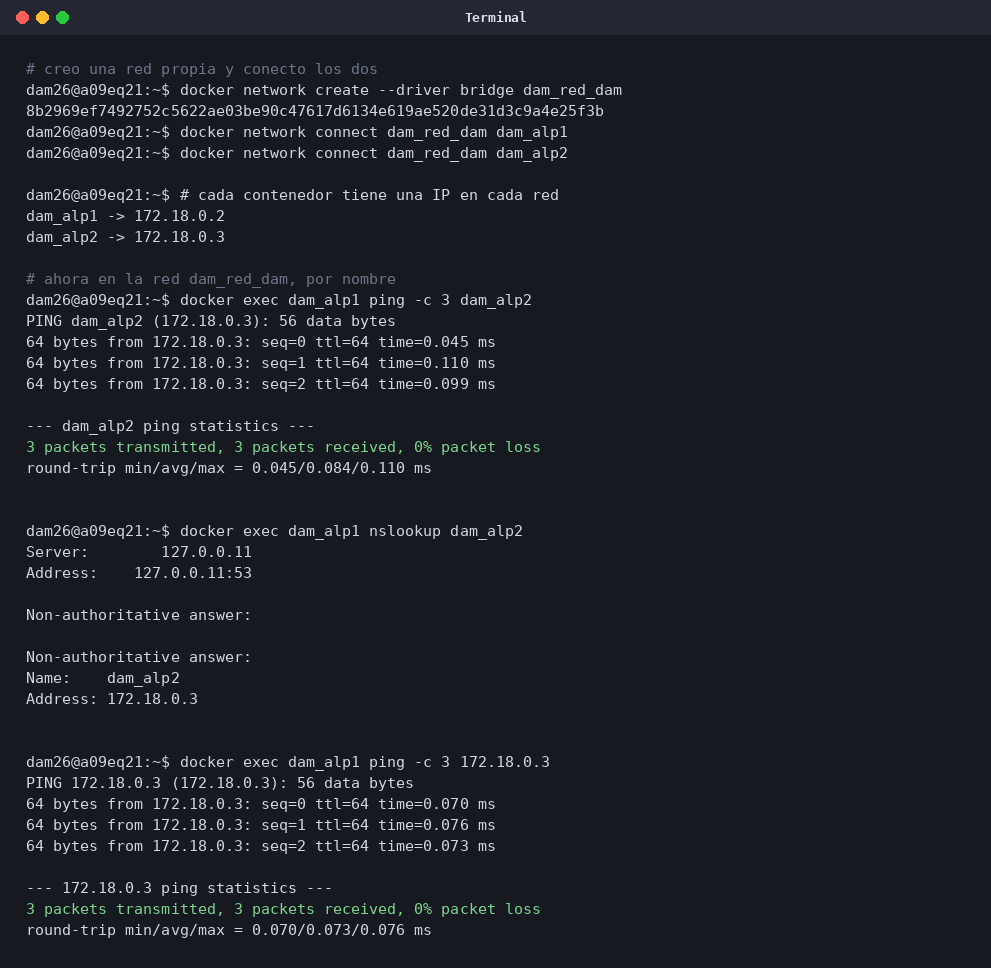
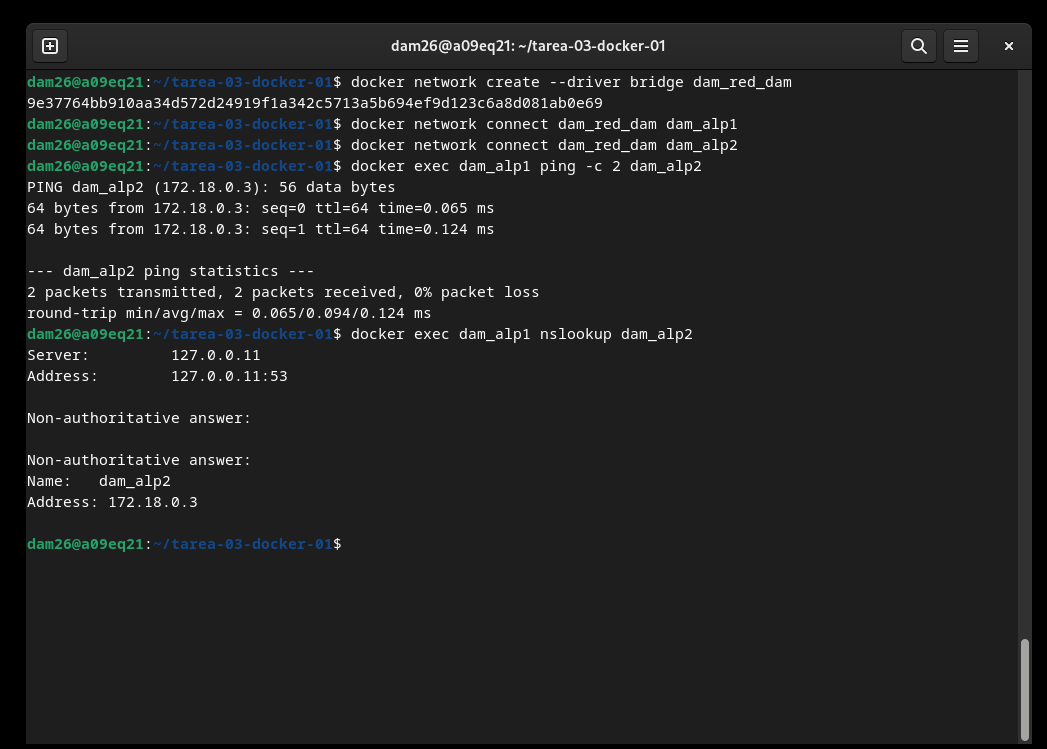
actualizar explicaciones y capturas

diff --git a/README.md b/README.md
@@ -1,123 +1,125 @@
 # Práctica Docker
 
-Práctica de contenedores con Alpine. He usado la imagen alpine:3.22, con la versión
-fija para no usar latest, que es una etiqueta que va cambiando.
+He usado alpine:3.22 para hacer la práctica. Pongo esa versión en vez de
+latest porque así no cambia la imagen de un paso a otro.
 
-## 1. Descargar la imagen
-
-Ponemos "docker pull alpine:3.22" y esperamos.
+Primero pongo "docker pull alpine:3.22". Ya tenía la imagen descargada, así que
+me sale que está actualizada.
 
 ![captura](capturas/01-descargar-imagen.png)
 
-Esto solo descarga, no crea ningún contenedor. Con "docker images" comprobamos que
-sale alpine:3.22 ocupando 8.3 MB.
+Esto solo descarga la imagen, no crea el contenedor. Después miro "docker images"
+y ahí sale Alpine ocupando 8,3 MB. Las otras imágenes ya las tenía de antes.
 
 ![captura](capturas/02-comprobar-imagen.png)
 
-## 2. Crear un contenedor sin nombre y sin arrancarlo
-
-Ponemos "docker create alpine:3.22 sh" y nos devuelve un id.
+Pongo "docker create alpine:3.22 sh" y me devuelve un id.
 
 ![captura](capturas/03-crear-sin-nombre.png)
 
-Después lo miramos con "docker ps -a".
+Lo miro con "docker ps -a" y luego con "docker ps".
 
 ![captura](capturas/04-estado-created.png)
 
-Se queda en estado Created, o sea que existe pero no tiene ningún proceso corriendo.
-Por eso no sale en "docker ps", que solo muestra los que están funcionando.
+Sale en estado Created, o sea que está creado pero no arrancado. Por eso aparece
+en "docker ps -a" y no en "docker ps", que solo muestra los que están funcionando.
 
-El nombre se lo ha puesto Docker solo, nos ha puesto laughing_poincare. Estos nombres
-son aleatorios, por eso mejor siempre ponerlo con --name.
+Como no le puse nombre, Docker le ha puesto friendly_brahmagupta. Estos nombres
+son aleatorios; para elegir uno hay que poner --name.
 
-## 3. Crear y arrancar dam_alp1
-
-Ponemos "docker run -dit --name dam_alp1 alpine:3.22 sh".
+Ahora pongo "docker run -dit --name dam_alp1 alpine:3.22 sh". Esta vez sí lo
+arranca, y con "docker ps" veo que está funcionando.
 
 ![captura](capturas/05-arrancar-dam_alp1.png)
 
-Para poder escribir dentro hacen falta la -i, para que no se corte el teclado, y la -t,
-para que nos de una terminal. La -d es para que se quede funcionando detrás.
+La -d es para dejarlo en segundo plano, la -i mantiene abierta la entrada
+y la -t le da una terminal. Así la shell no se cierra al arrancarlo.
 
-## 4. Ver la IP y hacer ping a google.com
-
-Entramos con "docker exec -it dam_alp1 sh" y dentro ponemos "ip -4 addr show eth0".
+Entro con "docker exec -it dam_alp1 sh". Dentro pongo "ip -4 addr show eth0"
+y después "ping -c 3 google.com".
 
 ![captura](capturas/06-ip-y-ping-google.png)
 
-La IP es 172.17.0.2. El ping a google.com va bien, con 0% de pérdida, así que tiene
-salida a internet.
+Me sale la IP 172.17.0.2. El ping a Google va bien: llegan los tres paquetes
+y hay un 0% de pérdida. Tiene salida a internet.
 
-## 5. dam_alp2 y pings entre los dos
+Creo el segundo igual, con "docker run -dit --name dam_alp2 alpine:3.22 sh".
+Miro su IP con "docker exec dam_alp2 ip -4 addr show eth0" y sale 172.17.0.3.
+El primero tiene 172.17.0.2.
 
-Creamos el otro igual, con "docker run -dit --name dam_alp2 alpine:3.22 sh". El primero
-tiene la IP 172.17.0.2 y el segundo la 172.17.0.3.
-
-Por la IP va bien, poniendo "docker exec -it dam_alp1 ping -c 2 172.17.0.3".
+Por IP funciona con "docker exec dam_alp1 ping -c 2 172.17.0.3". Pero al probar
+con el nombre dam_alp2 da error.
 
 ![captura](capturas/07a-pings-bridge-defecto.png)
 
-Por el nombre no va, da "ping: bad address 'dam_alp2'". Es que la red que viene por
-defecto no tiene servidor de nombres, así que ping no sabe qué IP es dam_alp2. Lo
-comprobamos con "docker exec -it dam_alp1 nslookup dam_alp2", que pregunta al
-8.8.8.8 y le contesta NXDOMAIN, porque ese es el DNS de internet y no sabe nada de
-nuestros contenedores.
+Sale el error ping: bad address 'dam_alp2'. En la red bridge que viene por defecto,
+Docker no busca la IP a partir del nombre del contenedor. Lo compruebo con
+"docker exec dam_alp1 nslookup dam_alp2": pregunta a 8.8.8.8 y contesta
+NXDOMAIN, porque ese DNS no conoce nuestros contenedores.
 
-La solución es crear una red nuestra con "docker network create --driver bridge
-dam_red_dam" y conectar los dos con "docker network connect dam_red_dam dam_alp1".
+Para que vaya por nombre creo una red con
+"docker network create --driver bridge dam_red_dam". Conecto los dos
+con "docker network connect dam_red_dam dam_alp1" y
+"docker network connect dam_red_dam dam_alp2", y repito el ping.
 
 ![captura](capturas/07b-pings-red-usuario.png)
 
-Ahora sí va por el nombre, porque en esta red Docker mete un DNS en 127.0.0.11 que ya
-sabe los nombres. Y por la IP también va, más la vuelta desde el otro contenedor.
+Ahora sí va por el nombre. En nslookup sale el DNS de Docker, 127.0.0.11,
+que ya sabe que dam_alp2 tiene la IP 172.18.0.3.
+
+En la nueva red tienen las IP 172.18.0.2 y 172.18.0.3. Pruebo también por
+esa IP y al revés, desde dam_alp2 a dam_alp1, y funciona en los dos sentidos.
 
 ![captura](capturas/07c-pings-red-usuario-ip.png)
 
-## 6. Cuánta memoria consumen
-
-Sí, hay comando, que es "docker stats --no-stream".
+Uso "docker stats --no-stream" para verlo. Con --no-stream muestra los datos
+una vez, sin quedarse actualizándolos.
 
 ![captura](capturas/08-memoria-stats.png)
 
-Cada uno está en unos 536 KiB, porque Alpine es una distribución muy pequeña y lo
-único que está vivo es la shell.
+Me salen 536 KiB en dam_alp1 y 528 KiB en dam_alp2. Consumen muy poco porque
+solo está abierta la shell. La CPU sale al 0%.
 
-## 7. Salir con exit
-
-Salimos de la shell escribiendo exit y luego miramos "docker ps".
+Entro otra vez con "docker exec -it dam_alp1 sh", escribo "exit" y después
+miro "docker ps".
 
 ![captura](capturas/09-exit-desligado.png)
 
-Los contenedores siguen funcionando, porque esa shell la abrió un "docker exec", que
-es un proceso aparte, y el proceso principal del contenedor no se ha tocado.
+Siguen funcionando los dos. El exit ha cerrado la shell que abrí con
+docker exec, pero no el proceso principal del contenedor.
 
-Para ver el otro caso hice un contenedor sin el -d, con "docker run -it --name
-dam_alp_attached alpine:3.22 sh". Aquí la shell es el proceso número 1, que lo vemos
-con "echo $$".
+Pruebo también con otro contenedor sin la -d:
+"docker run -it --name dam_alp_attached alpine:3.22 sh". Aquí la shell es el
+proceso principal. Pongo "echo $$" y sale 1.
 
 ![captura](capturas/10-exit-adherido.png)
 
-Al hacer exit aquí el contenedor se para entero y sale como Exited (0). O sea que exit
-no para el contenedor, para el proceso principal. Y como aquí la shell es ese proceso,
-al salir se para todo. En "docker ps" ya no sale, solo en "docker ps -a", y se puede
-volver a encender con "docker start".
+En este caso, al poner "exit" sí se para el contenedor, porque estoy cerrando
+su proceso principal. Ya no sale en "docker ps". Lo miro con
+"docker ps -a --filter name=dam_alp_attached" y aparece como Exited (0).
+Para arrancarlo otra vez se puede usar "docker start dam_alp_attached".
 
-## 8. Cuánto disco hemos ocupado
-
-Con "docker system df" sale el resumen.
+Pongo "docker system df" para ver cuánto espacio ocupa Docker.
 
 ![captura](capturas/11a-disco-system-df.png)
 
-Y con "docker system df -v" el detalle.
+Y con "docker system df -v" veo lo que ocupa cada imagen y cada contenedor.
 
 ![captura](capturas/11b-disco-system-dfv.png)
 
-Una imagen es una plantilla y un contenedor es uno que ya corre con esa plantilla. Lo
-que ocupa el disco es la imagen.
+Las imágenes ocupan 248,6 MB en total, pero no todo es de esta práctica.
+También están las imágenes que tenía antes. Alpine ocupa 8,3 MB.
 
-Aquí las imágenes ocupan 248,6 MB, pero de esta práctica solo son 8,3 MB, lo de Alpine.
-Los contenedores ocupan 1.093 kB, o sea nada, y los de Alpine salen con 0B porque no
-escribimos nada dentro. Con "docker ps -a --size" sale 0B (virtual 8.3MB), o sea que
-los 8.3 MB son los de la imagen y se guardan una sola vez, no una por contenedor.
+La imagen es la base para crear los contenedores. Los cuatro de Alpine usan la
+misma, así que esos 8,3 MB no se guardan cuatro veces. Cada contenedor guarda
+aparte los archivos que se añaden o cambian dentro.
+
+Con "docker ps -a --size", dam_alp1 sale con 47 B y dam_alp_attached con
+13 B. Es el historial que ha guardado la shell. Los otros dos de Alpine salen
+con 0 B. Donde pone virtual 8.3MB está contando también la imagen compartida.
+
+Todos los contenedores juntos ocupan 1,153 kB, contando los que tenía de antes.
+Vamos, que en esta práctica lo que más ocupa es la imagen; dentro de los
+contenedores apenas hemos guardado nada.
 
 ![captura](capturas/11c-imagenes-vs-contenedores.png)
